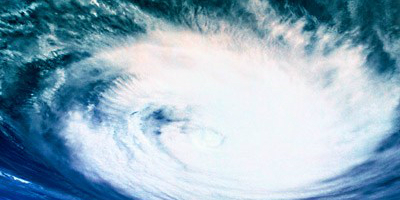
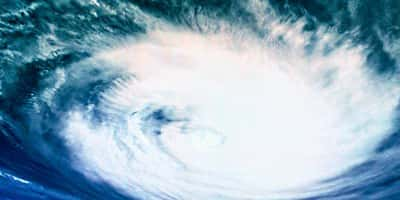
img compress

diff --git a/help.html b/help.html
@@ -65,7 +65,7 @@ https://www.ted.com
       <div class="row">
        <div class="col-sm-4">
         <div class="card">
-          <img src="img/Webp.net-compress-image.jpg" alt="anthropocene" class="card-img-top">
+          <img src="img/anthropocene_1200x627.jpg" alt="anthropocene" class="card-img-top">
           <div class="card-body">
             <h5 class="card-title">Card title</h5>
             <p class="card-text">Some quick example text to build on the card title and make up the bulk of the card's content.</p> 
